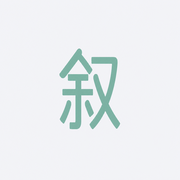
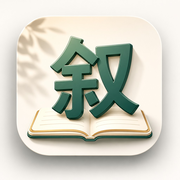
更换叙账 App 图标与官网 favicon以及文案级优化

diff --git a/NativeDemoApp/Views/MemberPricingView.swift b/NativeDemoApp/Views/MemberPricingView.swift
@@ -21,14 +21,14 @@ struct MemberPricingView: View {
     ]
 
     private let benefits = [
-        ("🎬 周/月生活切片无限回看", "统计页「本周生活切片」「本月生活章」不限次数播放；用章节卡片看懂这段时间花了什么、节奏如何。核心卖点。"),
-        ("📝 场景备注包 + 宠物专属昵称", "通勤/吃货/宠物/旅行四包一键备注；自定义昵称（2～6 字）贯穿切片与记账旁白。"),
-        ("📷 OCR 智能识票不限次", "拍照导入账单；免费用户每日 3 次尝鲜，会员不限（可设软上限防滥用，商店仍写「不限」）。"),
-        ("☁ 云端备份 + 纯净无广告", "登录后账单可同步云端、换机不丢；全程无营销弹窗。天气/季节暖心旁白加强随会员模板更完整。"),
-        ("💬 小 AI 说 · 播后可选深聊（不限次）", "生活切片讲完后，若想多一句交谈式建议再用；含季/年深度复盘（需 ai-proxy 会员 JWT）。增强项，非首图卖点。"),
+        ("🎬 周/月生活切片无限回看", "在「看看花」里不限次数回看本周生活切片与本月生活章，把一段时间的花费讲成清楚的生活脉络。"),
+        ("📝 场景备注包 + 宠物专属昵称", "通勤、吃货、宠物、旅行四类一键备注；自定义昵称会出现在记账旁白与生活切片里。"),
+        ("📷 OCR 智能识票不限次", "导入微信/支付宝单笔账单详情截图，识别后先确认，再写入账单。免费用户每日 3 次，会员不限次。"),
+        ("☁ 云端备份 + 纯净无广告", "登录后可同步账单与会员状态，换机时更容易恢复；App 内不放广告。"),
+        ("💬 小 AI 说 · 播后可选深聊", "生活切片讲完后，想再多一句建议时可以继续聊，语气保持温和、不说教。"),
     ]
 
-    private let freeQuotaFootnote = "免费体验：本周生活切片每自然周 1 次 · 本月生活章终生 3 次 · OCR 每日 3 次 · 今日流水回放每日 1 次。开通会员后上述回访与识票不限。"
+    private let freeQuotaFootnote = "免费体验：本周生活切片每自然周 1 次 · 本月生活章终生 3 次 · OCR 每日 3 次 · 今日生活回放每日 1 次。开通会员后，周/月切片与 OCR 可不限次使用。"
 
     private var isMember: Bool {
         let tier = settingsViewModel.memberTier.lowercased()
@@ -90,11 +90,11 @@ struct MemberPricingView: View {
 
     private var heroSection: some View {
         VStack(alignment: .leading, spacing: 8) {
-            Text("✨ 升级会员，解锁更多温柔陪伴")
+            Text("让生活切片一直可回看")
                 .font(.system(size: 20, weight: .bold))
                 .foregroundStyle(AppColors.text)
 
-            Text("让小宠物陪你，更轻松地把钱花明白")
+            Text("会员解锁周/月切片无限回看、OCR 不限次和云端备份。")
                 .font(.system(size: 13))
                 .foregroundStyle(AppColors.subtext)
 
@@ -120,7 +120,7 @@ struct MemberPricingView: View {
                 .buttonStyle(.plain)
                 .padding(.top, 4)
 
-                Text("可随时取消，数据仍保留在本地。")
+                Text("订阅可随时在 App Store 账户设置中取消。")
                     .font(.system(size: 11))
                     .foregroundStyle(AppColors.subtext.opacity(0.8))
             }
@@ -234,7 +234,7 @@ struct MemberPricingView: View {
             debugPurchaseButtons
             #endif
 
-            Text("订阅可随时在 App Store / 账户设置中取消。首月推介价以 App Store Connect 配置为准。")
+            Text("订阅可随时在 App Store 账户设置中取消。新用户首月优惠以购买页显示为准。")
                 .font(.system(size: 11))
                 .foregroundStyle(AppColors.subtext.opacity(0.8))
                 .padding(.top, 4)
@@ -248,7 +248,7 @@ struct MemberPricingView: View {
             Image(systemName: "checkmark.seal.fill")
                 .font(.system(size: 32))
                 .foregroundStyle(AppColors.accent)
-            Text("你已是\(settingsViewModel.memberTier)会员")
+            Text("你已开通\(memberTierDisplayName(settingsViewModel.memberTier))")
                 .font(.system(size: 15, weight: .semibold))
                 .foregroundStyle(AppColors.text)
             Text("所有会员权益已解锁，感谢你的信任与陪伴。")
@@ -271,7 +271,7 @@ struct MemberPricingView: View {
     // MARK: - Privacy
 
     private var privacyNote: some View {
-        Text("你的账单数据始终保存在本地，会员权益仅用于解锁功能与服务。我们不会将你的数据分享给第三方，也不会发送营销骚扰信息。")
+        Text("默认不登录也能记账。开启云端备份后，仅同步必要账单数据与会员状态；OCR 原图不会上传。")
             .font(.system(size: 11))
             .foregroundStyle(AppColors.subtext.opacity(0.75))
             .lineSpacing(3)
@@ -464,6 +464,15 @@ struct MemberPricingView: View {
     private func displayPrice(for plan: MemberPlan) -> String {
         guard let tier = IAPTier(rawValue: plan.id) else { return plan.price }
         return iapService.displayPrice(for: tier, fallback: plan.price)
+    }
+
+    private func memberTierDisplayName(_ tier: String) -> String {
+        switch tier.lowercased() {
+        case "monthly": return "月度会员"
+        case "yearly": return "年度会员"
+        case "lifetime": return "永久会员"
+        default: return "会员"
+        }
     }
 }
 

diff --git a/NativeDemoApp/Views/SettingsView.swift b/NativeDemoApp/Views/SettingsView.swift
@@ -115,7 +115,7 @@ struct SettingsView: View {
                 .font(.system(size: 22, weight: .bold))
                 .foregroundStyle(AppColors.text)
 
-            sectionBody("数据仅保存在你的手机，不上传云端。")
+            sectionBody("默认仅保存在你的手机；登录并开启同步后，才会上传云端备份。")
 
             // Display name
             settingField(label: "显示名称") {
@@ -125,12 +125,12 @@ struct SettingsView: View {
                     .onSubmit { commitDisplayName() }
             }
 
-            // iCloud sync
-            settingToggle("iCloud 备份（可选）", isOn: Binding(
+            // Cloud sync
+            settingToggle("云端备份（可选）", isOn: Binding(
                 get: { settingsViewModel.syncEnabled },
                 set: { settingsViewModel.syncEnabled = $0 }
             ))
-            settingHelper("开启后数据会同步到 iCloud，换机更方便。")
+            settingHelper("开启后账单会同步到云端，换机时可恢复。")
 
             // AI toggle
             settingToggle("开启 AI 智能建议（需联网）", isOn: Binding(
@@ -168,7 +168,7 @@ struct SettingsView: View {
 
     private func commitDisplayName() {
         let trimmed = draftDisplayName.trimmingCharacters(in: .whitespacesAndNewlines)
-        let next = trimmed.isEmpty ? "叙帐用户" : trimmed
+        let next = trimmed.isEmpty ? "叙账用户" : trimmed
         draftDisplayName = next
         if settingsViewModel.displayName != next {
             settingsViewModel.displayName = next
@@ -266,13 +266,12 @@ struct SettingsView: View {
                     .foregroundStyle(AppColors.text)
             }
 
-            // Debug/status display until StoreKit purchase + server receipt validation is wired.
             HStack {
                 Text("会员档位")
                     .font(.system(size: 14))
                     .foregroundStyle(AppColors.subtext)
                 Spacer()
-                Text(settingsViewModel.memberTier)
+                Text(memberTierDisplayName(settingsViewModel.memberTier))
                     .font(.system(size: 14, weight: .medium))
                     .foregroundStyle(AppColors.text)
             }
@@ -419,7 +418,7 @@ struct SettingsView: View {
             Text("数据与隐私")
                 .font(.system(size: 14, weight: .bold))
                 .foregroundStyle(AppColors.text)
-            Text("默认本地存储，无需登录即可完整使用。如果开启同步，后续版本会使用加密远程同步。")
+            Text("默认本地存储，无需登录即可完整使用。开启云端备份后，仅同步必要账单数据与会员状态。")
                 .font(.system(size: 12))
                 .foregroundStyle(AppColors.subtext)
         }
@@ -538,6 +537,15 @@ struct SettingsView: View {
                 .shadow(color: isActive ? AppColors.accent.opacity(0.2) : .clear, radius: 4, y: 2)
         }
         .buttonStyle(.plain)
+    }
+
+    private func memberTierDisplayName(_ tier: String) -> String {
+        switch tier.lowercased() {
+        case "monthly": return "月度会员"
+        case "yearly": return "年度会员"
+        case "lifetime": return "永久会员"
+        default: return "免费用户"
+        }
     }
 }
 

diff --git a/NativeDemoApp/ContentView.swift b/NativeDemoApp/ContentView.swift
@@ -2196,7 +2196,7 @@ struct InsightWebView: View {
                             }
                             .buttonStyle(.plain)
                         } else {
-                            Text("季度 / 年度复盘可在后续版本接入远程 AI。")
+                            Text("季度 / 年度复盘正在打磨中，先从每周和每月慢慢回看。")
                                 .font(.system(size: 12))
                                 .foregroundStyle(AppColors.subtext)
                         }
@@ -2502,7 +2502,7 @@ struct InsightWebView: View {
     private func generateAndShareWeeklyCard() {
         guard let payload = PlaybackService().buildWeeklyShareCardPayload(from: homeViewModel.items) else { return }
         let petMode = settingsViewModel.petCompanionEnabled
-        let nick = settingsViewModel.displayName.isEmpty ? "叙帐用户" : settingsViewModel.displayName
+        let nick = settingsViewModel.displayName.isEmpty ? "叙账用户" : settingsViewModel.displayName
         let card = WeeklyShareCardView(
             payload: payload,
             isPetMode: petMode,
@@ -2529,7 +2529,7 @@ struct WeeklyShareCardView: View {
     let subtitle: String
     let periodText: String
     var isPetMode: Bool = true
-    var nickname: String = "叙帐用户"
+    var nickname: String = "叙账用户"
 
     private var t: ShareCardTheme { isPetMode ? .pet : .neutral }
 
@@ -2568,7 +2568,7 @@ struct WeeklyShareCardView: View {
         subtitle: String = "温柔回看，不必苛责，按自己的节奏慢慢生活。",
         periodText: String? = nil,
         isPetMode: Bool = true,
-        nickname: String = "叙帐用户"
+        nickname: String = "叙账用户"
     ) {
         self.weekTotal = weekTotal
         self.topCategory = topCategory
@@ -2582,7 +2582,7 @@ struct WeeklyShareCardView: View {
         self.nickname = nickname
     }
 
-    init(payload: WeeklyShareCardPayload, isPetMode: Bool = true, nickname: String = "叙帐用户") {
+    init(payload: WeeklyShareCardPayload, isPetMode: Bool = true, nickname: String = "叙账用户") {
         self.init(
             weekTotal: payload.weekTotal,
             topCategory: payload.topCategory,
@@ -2617,7 +2617,7 @@ struct WeeklyShareCardView: View {
 
             // Content
             VStack(alignment: .leading, spacing: 0) {
-                Text("叙帐 · 周度分享卡")
+                Text("叙账 · 周度分享卡")
                     .font(.system(size: 20, weight: .bold))
                     .foregroundStyle(t.accent)
                     .lineLimit(1)
@@ -2662,7 +2662,7 @@ struct WeeklyShareCardView: View {
                     .frame(maxWidth: .infinity)
                     .lineLimit(2)
                     .minimumScaleFactor(0.82)
-                Text("来自 叙帐 · 温柔回看每一周")
+                Text("来自 叙账 · 温柔回看每一周")
                     .font(.system(size: 10))
                     .foregroundStyle(t.footerSub)
                     .frame(maxWidth: .infinity)

diff --git a/NativeDemoApp/ViewModels/HomeViewModel.swift b/NativeDemoApp/ViewModels/HomeViewModel.swift
@@ -399,7 +399,7 @@ final class HomeViewModel: ObservableObject {
         guard total > 0 else {
             return "今天还没记支出，先从一笔小额开始就很好。"
         }
-        return "叙帐用户，今天总支出 \(formatCurrency(total))，主要花在\(topCategory)。继续保持每笔小额记录就很好。"
+        return "叙账用户，今天总支出 \(formatCurrency(total))，主要花在\(topCategory)。继续保持每笔小额记录就很好。"
     }
 
     var weekExpenseTotal: Double {
@@ -749,7 +749,7 @@ final class HomeViewModel: ObservableObject {
         analyticsService.track("member_cta_clicked", props: ["scene": scene.rawValue, "channel": "ios_home"])
         memberNudgeCopy = nil
         activeMemberNudgeScene = nil
-        syncStatusMessage = "已为你打开会员路径（演示）：请到设置页完成开通。"
+        syncStatusMessage = "已为你打开会员路径：请到设置页完成开通。"
     }
 
     func consumeRouteGuidance(_ guidance: PlaybackRouteGuidance? = nil) {
@@ -797,7 +797,7 @@ final class HomeViewModel: ObservableObject {
     nonisolated static func promptTemplate(todayTotal: Double, weeklyAverage: Double, monthlyTotal: Double, topCategories: String) -> String {
         """
         [System]
-        你是“叙帐”的温和消费复盘助手。请根据消费聚合数据，输出简短复盘和一条可执行建议，不说教、不批判、不提供投资买卖建议。
+        你是“叙账”的温和消费复盘助手。请根据消费聚合数据，输出简短复盘和一条可执行建议，不说教、不批判、不提供投资买卖建议。
 
         [User]
         日期：\(dayKey(for: .now))

diff --git a/NativeDemoApp/Models/AppSettings.swift b/NativeDemoApp/Models/AppSettings.swift
@@ -53,7 +53,7 @@ struct AppSettings: Codable, Equatable {
     var aiEndpoint: String
     var aiModel: String
     var remoteAIMonthlyLimit: Int
-    /// 叙帐后端根地址。生产环境固定走 `productionBackendBaseURL`。
+    /// 叙账后端根地址。生产环境固定走 `productionBackendBaseURL`。
     var backendBaseURL: String
     /// 云端用户 ID，登录成功后由后端返回；未登录为空。
     var cloudUserId: String
@@ -66,7 +66,7 @@ struct AppSettings: Codable, Equatable {
     }
 
     static let `default` = AppSettings(
-        displayName: "叙帐用户",
+        displayName: "叙账用户",
         notificationsEnabled: true,
         appearance: .system,
         biometricLockEnabled: false,
@@ -107,7 +107,7 @@ extension AppSettings {
 
     init(from decoder: Decoder) throws {
         let container = try decoder.container(keyedBy: CodingKeys.self)
-        displayName = try container.decodeIfPresent(String.self, forKey: .displayName) ?? "叙帐用户"
+        displayName = try container.decodeIfPresent(String.self, forKey: .displayName) ?? "叙账用户"
         notificationsEnabled = try container.decodeIfPresent(Bool.self, forKey: .notificationsEnabled) ?? true
         appearance = try container.decodeIfPresent(Appearance.self, forKey: .appearance) ?? .system
         biometricLockEnabled = try container.decodeIfPresent(Bool.self, forKey: .biometricLockEnabled) ?? false

diff --git a/NativeDemoApp/ViewModels/SettingsViewModel.swift b/NativeDemoApp/ViewModels/SettingsViewModel.swift
@@ -179,7 +179,7 @@ final class SettingsViewModel: ObservableObject {
         let client = AuthService(baseURL: backendBaseURL)
         do {
             try await client.sendSMSCode(phone: phone)
-            authMessage = "验证码已发送（开发环境固定为后端 DEV_ALLOW_SMS_CODE）。"
+            authMessage = "验证码已发送，请查看短信。"
         } catch {
             authMessage = error.localizedDescription
         }
@@ -271,7 +271,7 @@ final class SettingsViewModel: ObservableObject {
         LocalStore.saveSettings(settings)
     }
 
-    private static let localDefaultDisplayName = "叙帐用户"
+    private static let localDefaultDisplayName = "叙账用户"
 
     private static func isBackendDefaultDisplayName(_ value: String) -> Bool {
         let trimmed = value.trimmingCharacters(in: .whitespacesAndNewlines)

diff --git a/NativeDemoApp/Views/SummaryPlaybackSheet.swift b/NativeDemoApp/Views/SummaryPlaybackSheet.swift
@@ -6,7 +6,7 @@ struct SummaryPlaybackSheet: View {
     let petEnabled: Bool
     let isMember: Bool
     var weeklySharePayload: WeeklyShareCardPayload?
-    var shareNickname: String = "叙帐用户"
+    var shareNickname: String = "叙账用户"
     var onCompleted: (Double) -> Void
     var onShowMemberPricing: (() -> Void)? = nil
     var onOpenWeekly: (() -> Void)? = nil
@@ -458,7 +458,7 @@ struct SummaryPlaybackSheet: View {
         let card = WeeklyShareCardView(
             payload: payload,
             isPetMode: petEnabled,
-            nickname: shareNickname.isEmpty ? "叙帐用户" : shareNickname
+            nickname: shareNickname.isEmpty ? "叙账用户" : shareNickname
         )
         guard let image = card.snapshot() else { return }
         shareImage = ShareImage(image: image)

diff --git a/NativeDemoApp/Views/HomeView.swift b/NativeDemoApp/Views/HomeView.swift
@@ -264,7 +264,7 @@ struct HomeView: View {
             return
         }
         guard dailyQuotaStore.canPlayTodayPlayback(isMember: homeViewModel.hasMemberAccess) else {
-            todayPlaybackQuotaMessage = "今日免费回放次数已用完（1/1）。会员可无限回看今日流水回放。"
+            todayPlaybackQuotaMessage = "今日免费回放次数已用完（1/1）。会员可无限回看今日生活回放。"
             return
         }
         dailyQuotaStore.markTodayPlaybackStarted(isMember: homeViewModel.hasMemberAccess)

diff --git a/NativeDemoApp/Services/AIReportService.swift b/NativeDemoApp/Services/AIReportService.swift
@@ -71,7 +71,7 @@ final class AIReportService {
         )
 
         let systemContent = """
-        你是“叙帐”的温和消费复盘助手。
+        你是“叙账”的温和消费复盘助手。
         根据用户消费快照输出 JSON，字段必须是 summary/action/encourage。
         不要输出投资建议，不要说教。
         """
